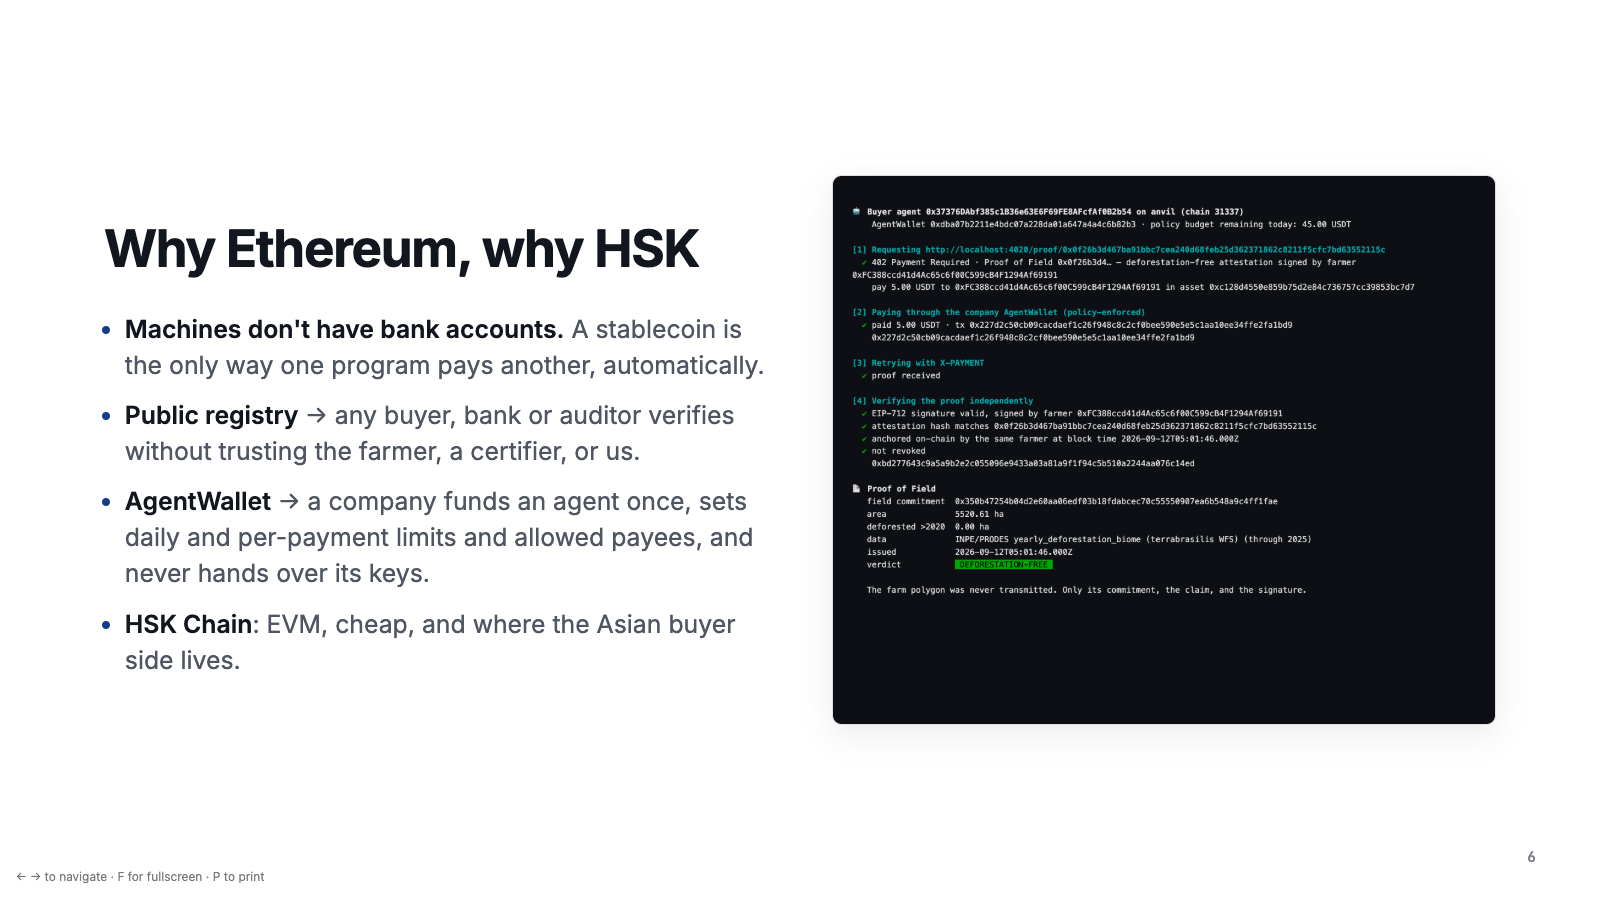
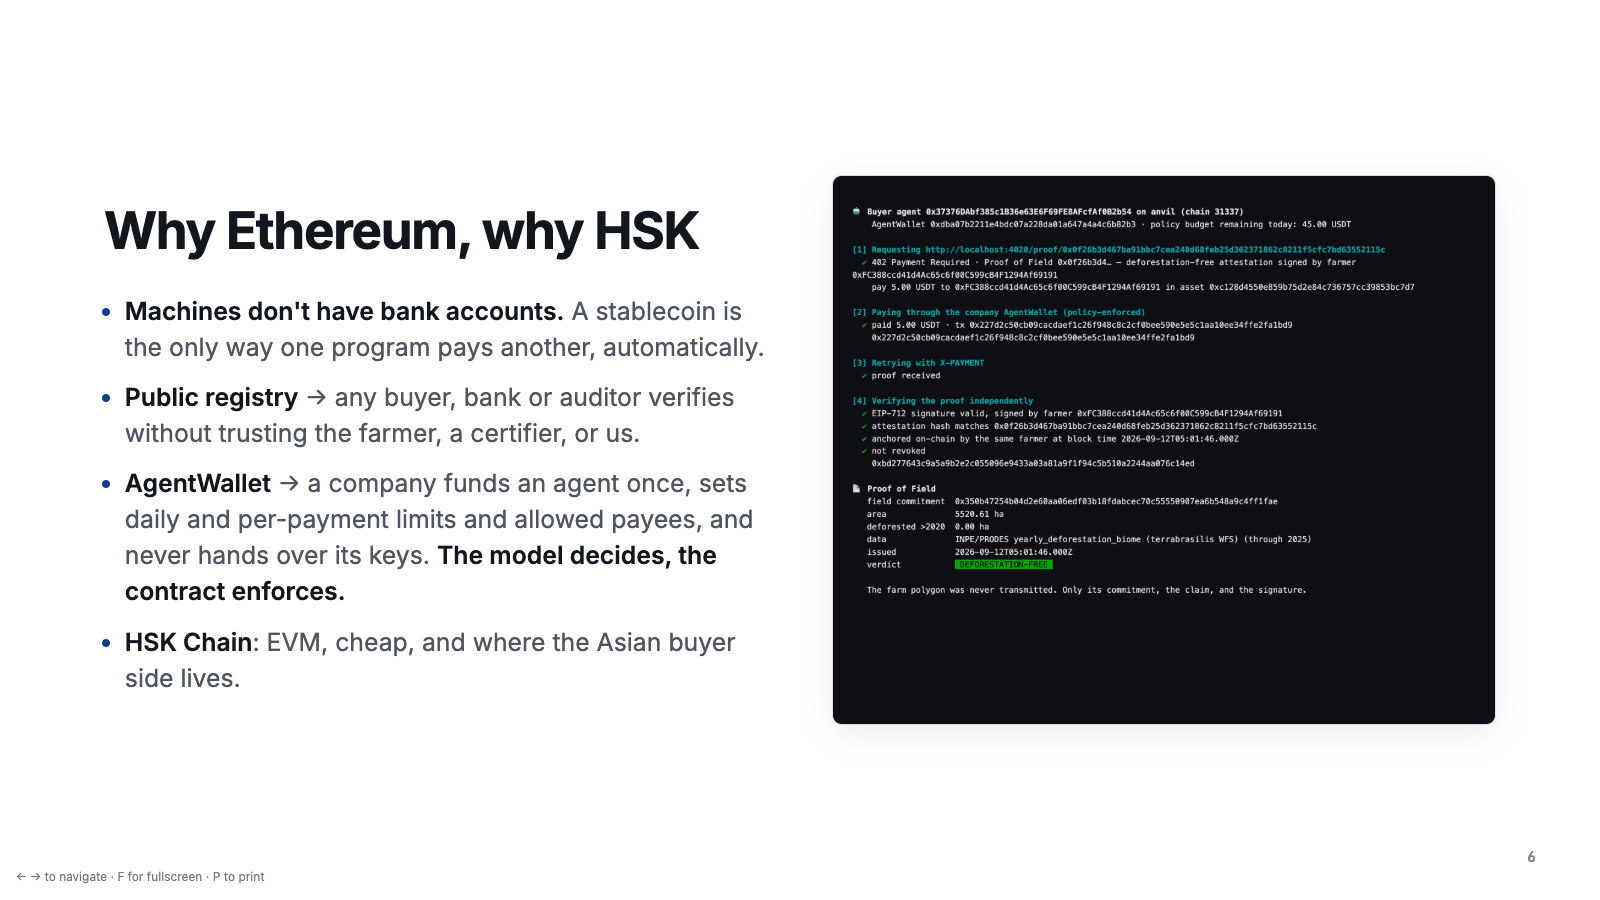
LLM buyer in pitch, slides, status; demo screenshot

Changed region(s): [[0.0625, 0.3422, 0.4688, 0.7778], [0.0625, 0.2178, 0.4375, 0.3111]]

diff --git a/docs/slides/index.html b/docs/slides/index.html
@@ -101,8 +101,8 @@
     <div class="step priv"><i>farmer · private</i><b>Field ∩ PRODES</b><p>Pure geometry against INPE's public polygons. No ML, no cloud.</p></div>
     <div class="step priv"><i>farmer · private</i><b>EIP-712 attestation</b><p>Area, ha deforested after 2020, verdict, source, timestamp. Signed.</p></div>
     <div class="step"><i>HSK Chain</i><b>Anchor</b><p><code>attest(hash, fieldId)</code> in the registry. Only commitments on-chain.</p></div>
-    <div class="step pay"><i>buyer agent</i><b>HTTP 402 → pay</b><p>x402 flow. Pays USDT through an <b>AgentWallet</b> with spending policy.</p></div>
-    <div class="step pay"><i>buyer agent</i><b>Verify</b><p>Signature → same farmer anchored it → not revoked. No trust in us.</p></div>
+    <div class="step pay"><i>buyer agent · LLM</i><b>Decide, HTTP 402 → pay</b><p>Claude with tools reads one sentence from the operator, decides per farm, pays USDT through an <b>AgentWallet</b> with on-chain limits.</p></div>
+    <div class="step pay"><i>buyer agent · LLM</i><b>Verify &amp; report</b><p>Signature → same farmer anchored it → not revoked. Writes the compliance report.</p></div>
   </div>
   <p class="note">No human in the loop. The farmer is paid the second his data is used, and decides who gets it.</p>
   <span class="n">5</span>
@@ -115,11 +115,11 @@
       <ul>
         <li><b>Machines don't have bank accounts.</b> A stablecoin is the only way one program pays another, automatically.</li>
         <li><b>Public registry</b> → any buyer, bank or auditor verifies without trusting the farmer, a certifier, or us.</li>
-        <li><b>AgentWallet</b> → a company funds an agent once, sets daily and per-payment limits and allowed payees, and never hands over its keys.</li>
+        <li><b>AgentWallet</b> → a company funds an agent once, sets daily and per-payment limits and allowed payees, and never hands over its keys. <b>The model decides, the contract enforces.</b></li>
         <li><b>HSK Chain</b>: EVM, cheap, and where the Asian buyer side lives.</li>
       </ul>
     </div>
-    <img class="shot" src="08-buyer-agent-cli.png" alt="Buyer agent paying and verifying a proof" />
+    <img class="shot" src="09-llm-buyer-agent.png" alt="LLM buyer agent deciding, paying and verifying proofs" style="max-height:38vw;object-fit:cover;object-position:top" />
   </div>
   <span class="n">6</span>
 </section>

diff --git a/docs/PITCH.md b/docs/PITCH.md
@@ -17,7 +17,10 @@ Open BEFORE walking up: (A) farmer console in the browser, (B) terminal with the
 
 1. **[Console]** "This is the farmer's agent. It runs on his machine. These red areas are PRODES, the official deforestation map from Brazil's space agency, INPE." Click property …4C8E → 26 ha in 2022. "This one does not pass. The system says exactly where and when." Point at the red overlap on the map.
 2. Click …9C62 → Deforestation-free. "This one passes." Click **Sign attestation & anchor on-chain** → hash + tx. "Only the hash went on-chain. The farm's map is still here, on his machine." Copy the proof URL.
-3. **[Terminal B]** Paste the URL into the buyer agent. Narrate the four steps as they print: "402, payment required. It pays five USDT through a wallet with a spending policy. It gets the proof. It verifies the signature and the registry on its own. Nobody pressed a button. The farmer was paid the second his data was used."
+3. **[Terminal B]** Run the LLM buyer agent (command pre-typed, just press Enter):
+   `NETWORK=hsk-testnet pnpm buyer:ai "Buy the proofs for every farm in this lot. Budget 30 USDT. Reject any farm with deforestation after 2020."`
+   Narrate while it runs (~70 s, so start it EARLY, right after step 2, and talk over it): "This is the trading company's agent. It got one sentence from the operator. It lists what the farmer sells, checks its own on-chain spending policy, and decides. Watch: it buys the two clean farms over HTTP 402, five USDT each, verifies signature and registry on its own, and refuses the one with 26 hectares. Nobody pressed a button. The farmer was paid the second his data was used." Point at the final summary and the compliance report path.
+   **Fallback** if the API is slow or fails: `NETWORK=hsk-testnet pnpm buyer -- <proofUrl>` (deterministic, 5 s, same four steps).
 4. **[Explorer]** Show the attest tx and the payment tx on HSK. Done.
 
 Fallback if HSK is down: run everything with `NETWORK=anvil` (identical, no explorer). Have the backup video ready.
@@ -32,6 +35,10 @@ Fallback if HSK is down: run everything with `NETWORK=anvil` (identical, no expl
 - **"Is this real x402?"** The 402 body and `accepts[]` follow x402 v1. Settlement today is an on-chain transfer referenced by tx hash. EIP-3009 gasless settlement is the next step.
 - **"Real privacy would be ZK."** Agreed. Today: commitment plus aggregates. A ZK proof of "empty intersection" is on the roadmap, and it is feasible because the geometry is simple.
 - **"Who is the team? Will you continue?"** I have a farm in Abunã and I already build a field-mapping platform for it. This becomes a feature of that platform. Pilot with neighbors this year.
+
+## Timing warning
+
+The LLM run takes ~70 s. Start it right after signing (step 2) and narrate over it. Total demo still fits in ~2:30 if you don't wait in silence.
 
 ## Opening line (memorize)
 

diff --git a/STATUS.md b/STATUS.md
@@ -24,7 +24,8 @@ Precisa de `~/.foundry/bin` no PATH (o script já adiciona).
 - Devfolio: rascunho completo (`proof-of-field-a49c`), 3 trilhas, screenshots, repo, links HSK. Falta só PUBLICAR.
 - GitHub público: https://github.com/Muril0zz/proof-of-field
 - **HSK testnet ao vivo**: registry `0xe0e5…46dd`, attest tx `0xd1a3…6705`, pagamento `0x34d5…9c03`. Rodar: `NETWORK=hsk-testnet ./scripts/dev-up.sh`
-- Buyer com LLM (`pnpm buyer:ai`) escrito, precisa de ANTHROPIC_API_KEY pra testar.
+- **Buyer com LLM testado na HSK** (`NETWORK=hsk-testnet pnpm buyer:ai "..."`): compra as conformes, recusa a de 26 ha, escreve relatório em docs/reports/. ~70 s por execução. Limite diário da AgentWallet subiu pra 300 MockUSDT (token de teste, sem valor).
+- Chave da Anthropic está no .env (fora do git). **Rotacionar depois do evento**, ela passou pelo chat.
 
 ## VOCÊ precisa fazer (eu não consigo)
 1. **Devfolio**: criar conta e aplicar em https://eag-global-buildathon.devfolio.co (5 min). Na submissão marcar **Brazil Hackathon** + trilha EAG + **HSK Chain**.
